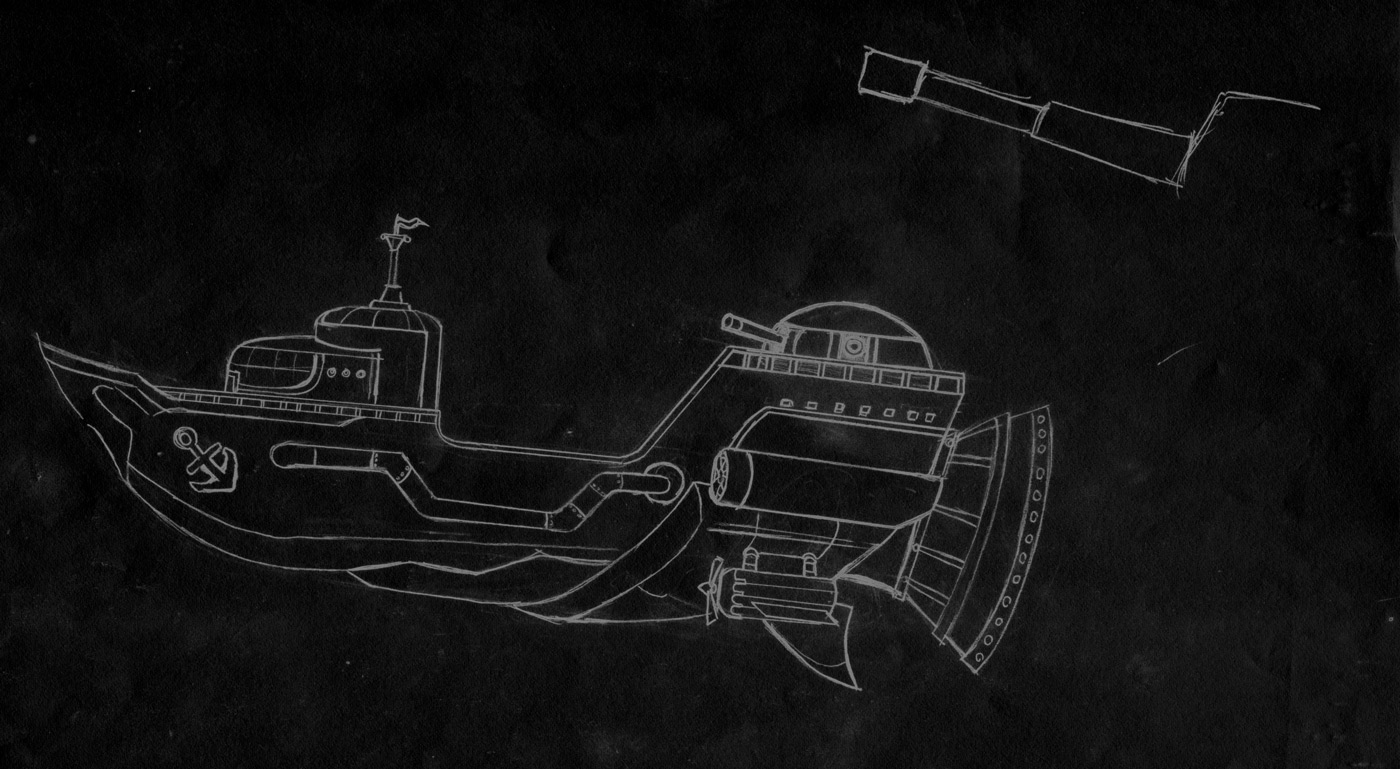
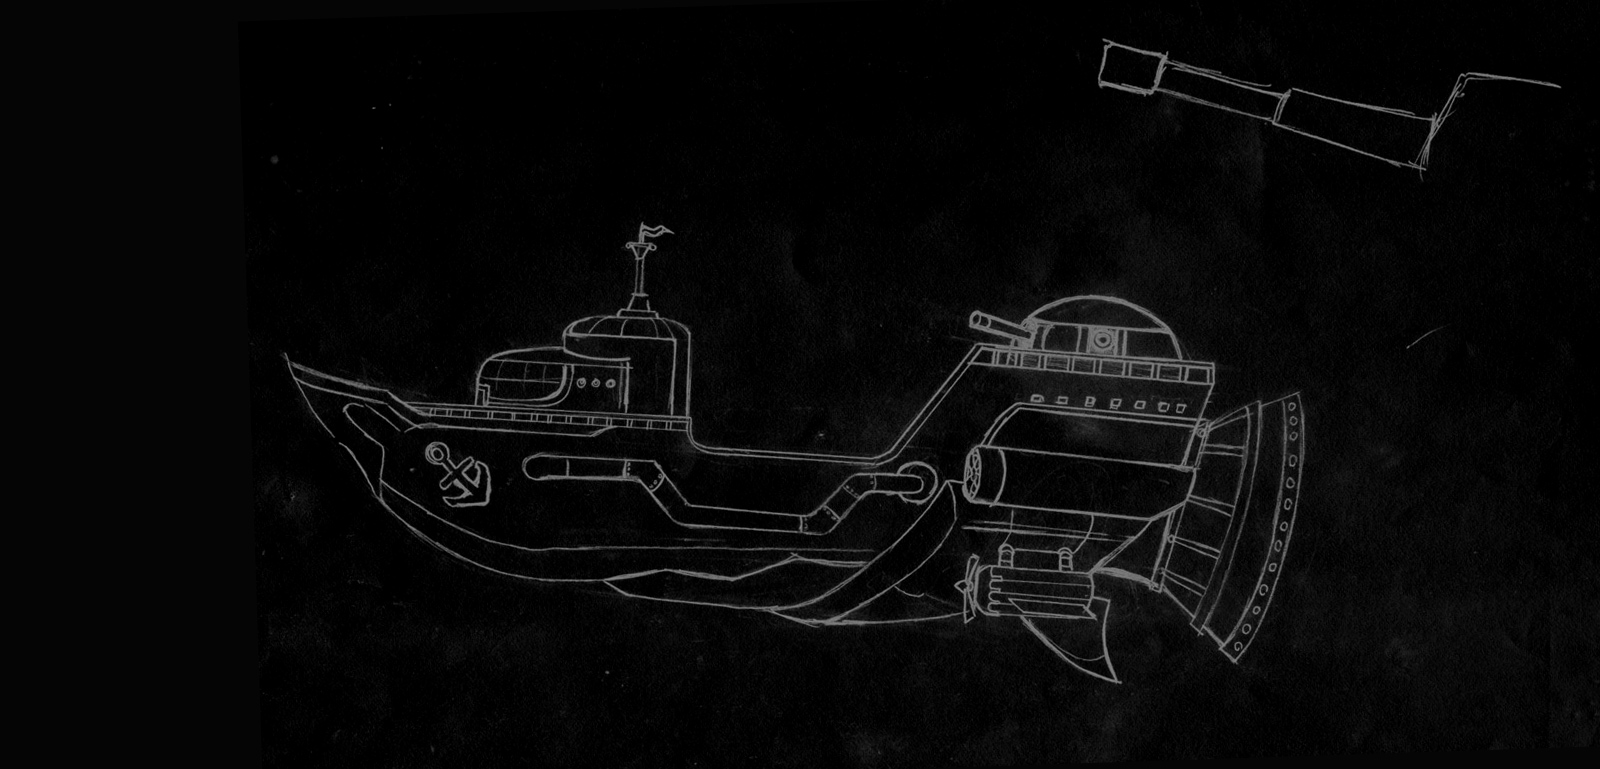
update: clearer images

diff --git a/index.html b/index.html
@@ -137,7 +137,6 @@
               </a>
             </div>
 
-
             <!-- <div class="s4 m6 filtr-item" data-category="5, 3" data-sort="value">
               <a href="img/anim.png" class="swipebox" title="">
             </div> -->
@@ -176,13 +175,11 @@
               </a>
             </div>
 
-
-
             <div class="s4 m6 filtr-item" data-category="3" data-sort="value">
               <a href="img/ship_1_sc_rev.jpg" class="swipebox" title="" rel="spaceships">
               <img class="responsive-img" src="img/ship_1_sc_rev.jpg" alt="sample">
               </a>
-              <a href="img/ship_1b_refined.png" class="swipebox" title="" rel="spaceships">&nbsp;</a>
+              <a href="img/ship_1b_refined.jpg" class="swipebox" title="" rel="spaceships">&nbsp;</a>
               <a href="img/ship_sc.jpg" class="swipebox" title="" rel="spaceships">&nbsp;</a>
               <a href="img/spaceship.jpg" class="swipebox" title="" rel="spaceships">&nbsp;</a>
 
